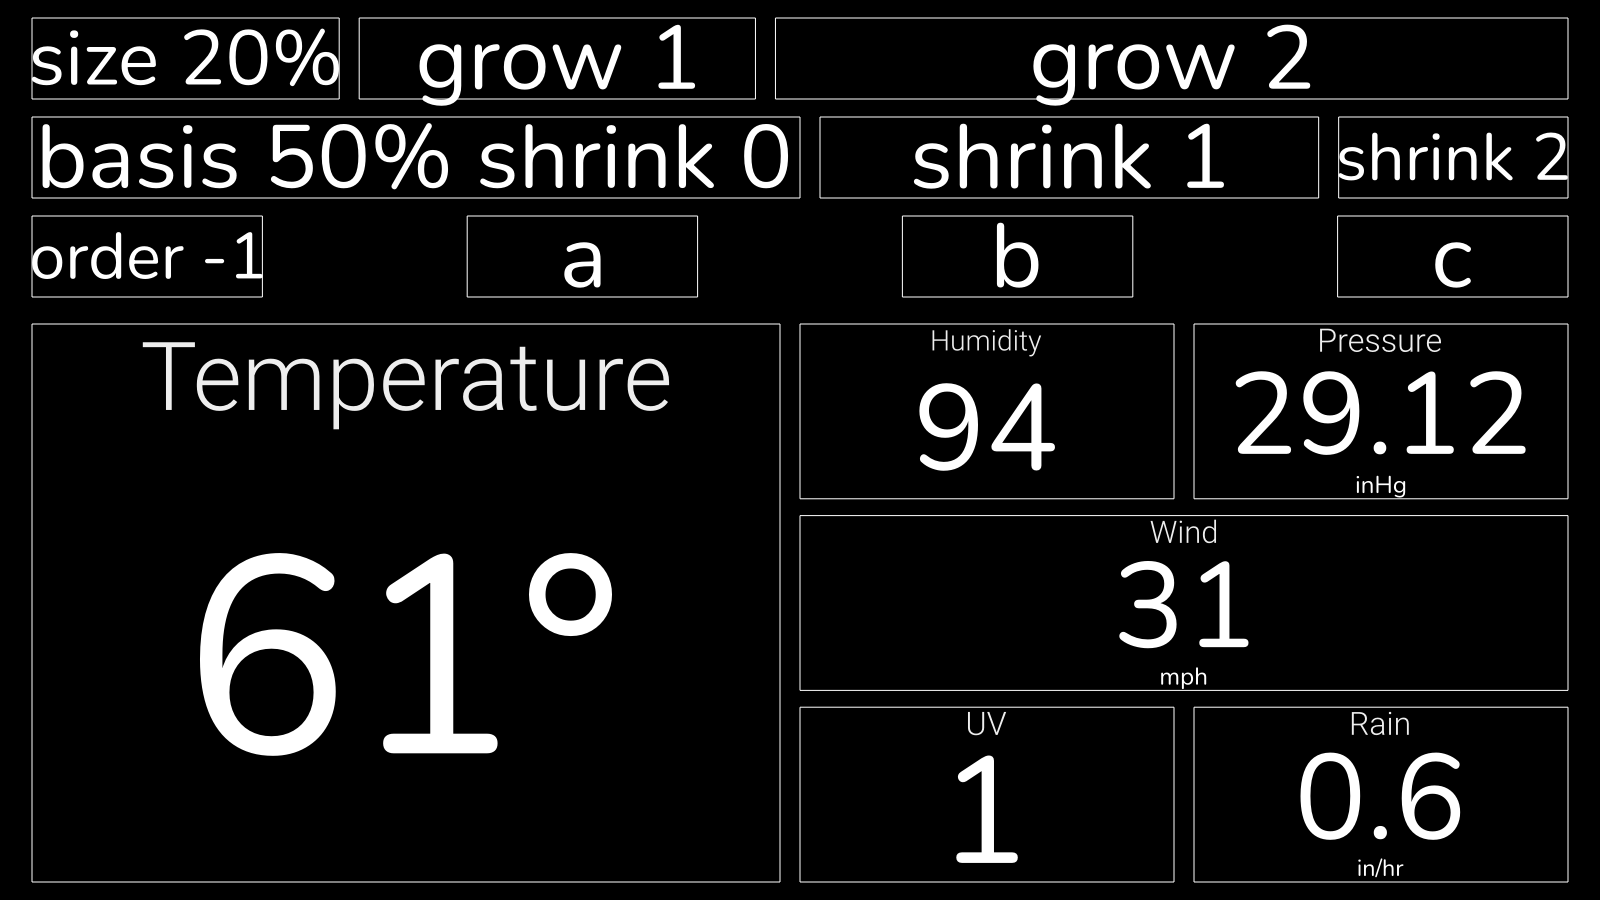
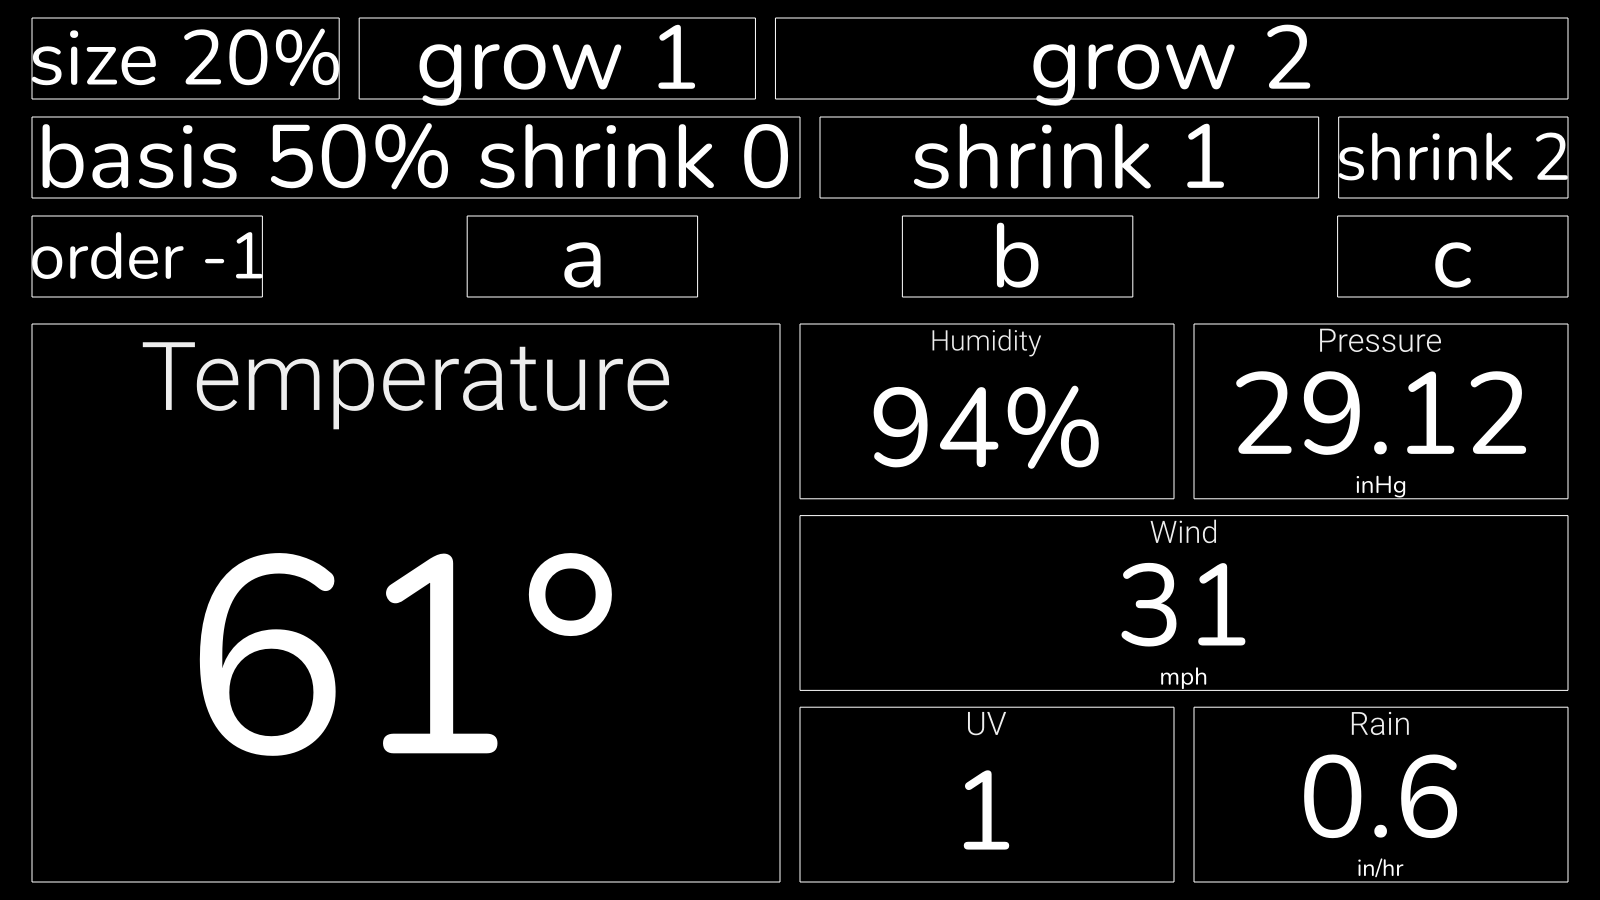
docs(Layout): Put the sample grid's text in size groups
Claude-Session: https://claude.ai/code/session_01UJLhZ5rFV4g8pnfgXYHjDA

diff --git a/docs/config/dashboard/layout.md b/docs/config/dashboard/layout.md
@@ -90,6 +90,7 @@ An item that shows a number reports its size from its **format hint**, the wides
 - A stack without any `flex:` key, and no item with one, is laid out exactly as before. A grid is always laid out by the grid engine.
 - A mistake in `flex:` or `grid:` (an unknown key, a wrong word) is an error on that item. The rest of the board loads.
 - Dividers are not drawn in a flex or grid stack.
+- A cell sizes its own text. To make the values in a grid or flex stack the same size, add a `shared:` size group (see the example board).
 - Not yet supported: `subgrid`, named areas, `calc()`, `%` inside a track list, margins on items, and sizing by anything but the text of a value (a gauge, a graph or a container has no content size, so for them `auto` is 0).
 
 Example board: `docs/design-references/css-layout.levity` (render: `docs/design-references/css-layout.png`).
